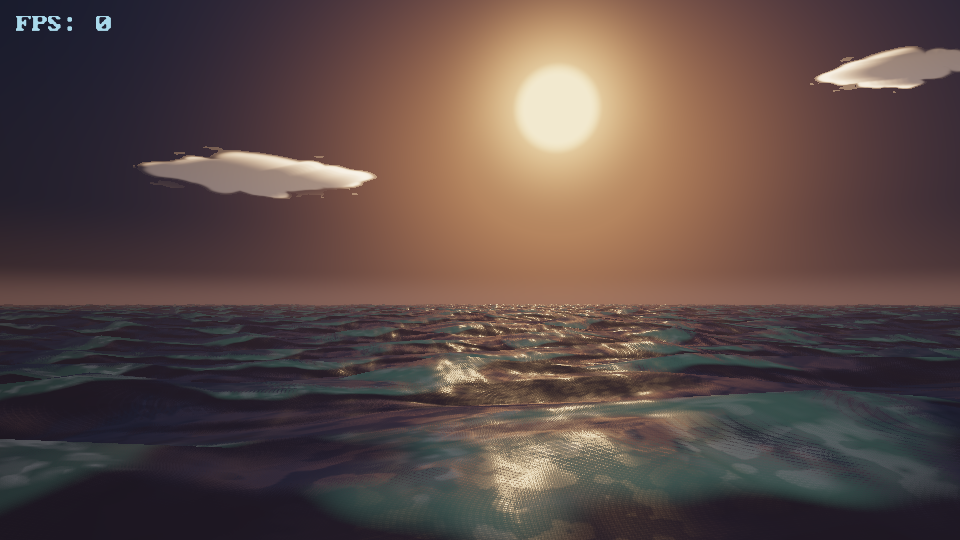
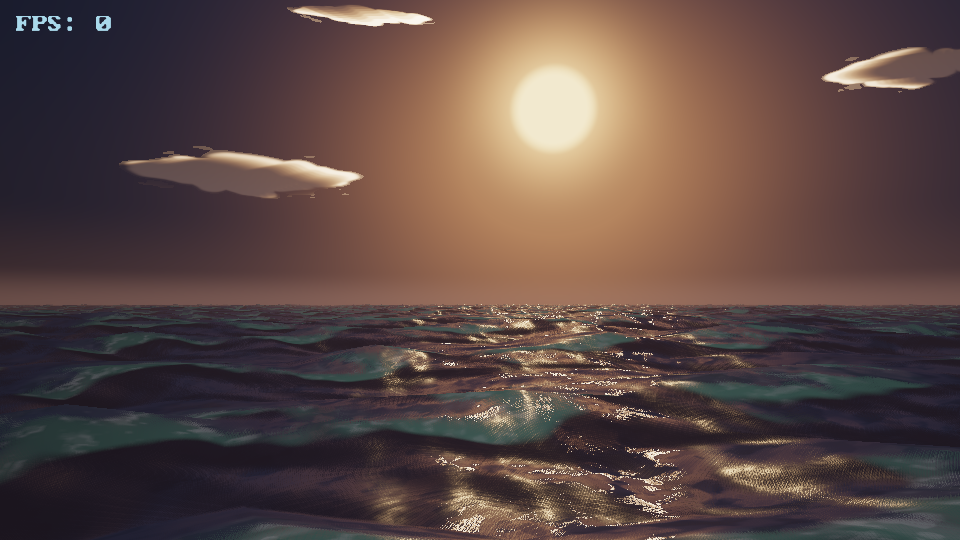
TideBench: two cirrus wisps above the sun and a calmer sea
Add cloud #8/#9 as thin high streaks over the dusk glow (squashed on
the depth axis in both sky and sea-shadow code so the shadow footprint
tracks the visible wisp) and drop the third wavelet octave that painted
half-bright teal squiggles over the dark sea. Refresh the README
screenshot from a same-renderer frame so the docs match the build.

🤖 Generated with Codebuff

diff --git a/README.md b/README.md
@@ -22,7 +22,7 @@ Close-up — mags resting on the ground, shadows clearly visible under each gun:
 
 ![Close-up: UZIs with mags on the ground and per-gun shadows](docs/screenshots/uzi_close.png)
 
-The TideBench ocean scene — long cloud banks with sunward silver linings, a narrow orange glitter path down the middle of the sea, dark blue-purple water either side, raised swell banks:
+The TideBench ocean scene — long cloud banks with sunward silver linings, two thin cirrus wisps riding high above the sun, a narrow orange glitter path down the middle of the sea, dark blue-purple water either side, raised swell banks:
 
 ![ElectroBench TideBench scene](docs/screenshots/ps14_dusk_t36.png)
 
@@ -84,14 +84,17 @@ hardware alike, so low single-digit FPS on a low-end machine means the workload 
 
 What it renders :
 - A procedural **sky dome** rendered **directly at full screen resolution**: dusk gradient with a
-  bright horizon band, a compact orange sun, and seven **volumetric cloud banks**. Each bank combines
-  eight anisotropic 3D lobes with low-frequency boundary erosion, then integrates seven density probes
-  toward the sun through three energy-conserving scattering octaves. This produces layered cauliflower
-  silhouettes, thin silver linings, warm transmission through shoulders, cool dense bases, powdery
-  cores, and aerial perspective without sampling a cloud texture. Hand-placed banks preserve exact
-  clear-sky gaps instead of producing noise-texture mottle
+  bright horizon band, a compact orange sun, seven **volumetric cloud banks** and two **thin cirrus
+  wisps** parked above the sun (small radius, heavy stretch, flattened on the depth axis so they read
+  as paper-thin streaks riding over the dusk glow — their shadows on the sea squash to match). Each
+  bank combines eight anisotropic 3D lobes with low-frequency boundary erosion, then integrates seven
+  density probes toward the sun through three energy-conserving scattering octaves. This produces
+  layered cauliflower silhouettes, thin silver linings, warm transmission through shoulders, cool
+  dense bases, powdery cores, and aerial perspective without sampling a cloud texture. Hand-placed
+  banks preserve exact clear-sky gaps instead of producing noise-texture mottle
 - A **4 km ocean patch** on a dense GPU-displaced grid: long rolling swells with crest-skewed banks,
-  per-pixel analytic wave normals plus near-camera detail wavelets
+  per-pixel analytic wave normals plus near-camera detail wavelets (two slow octaves — the fine third
+  octave was tuned out, its half-bright teal squiggle band read as scum on the dark sea in motion)
 - High-resolution **environment cubemap** reflections with roughness-matched LOD (the sun smears
   into a glow, never texel squares), fresnel blending, sun-tinted **glitter** path gated to the
   sun's azimuth (bright path down the middle, dark blue-purple water either side),
